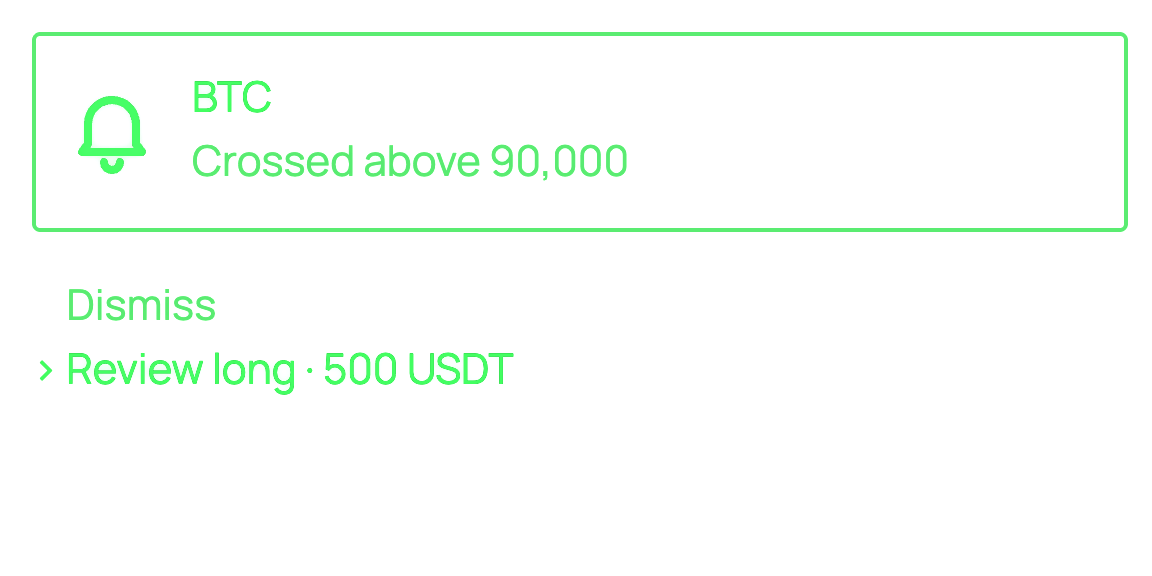
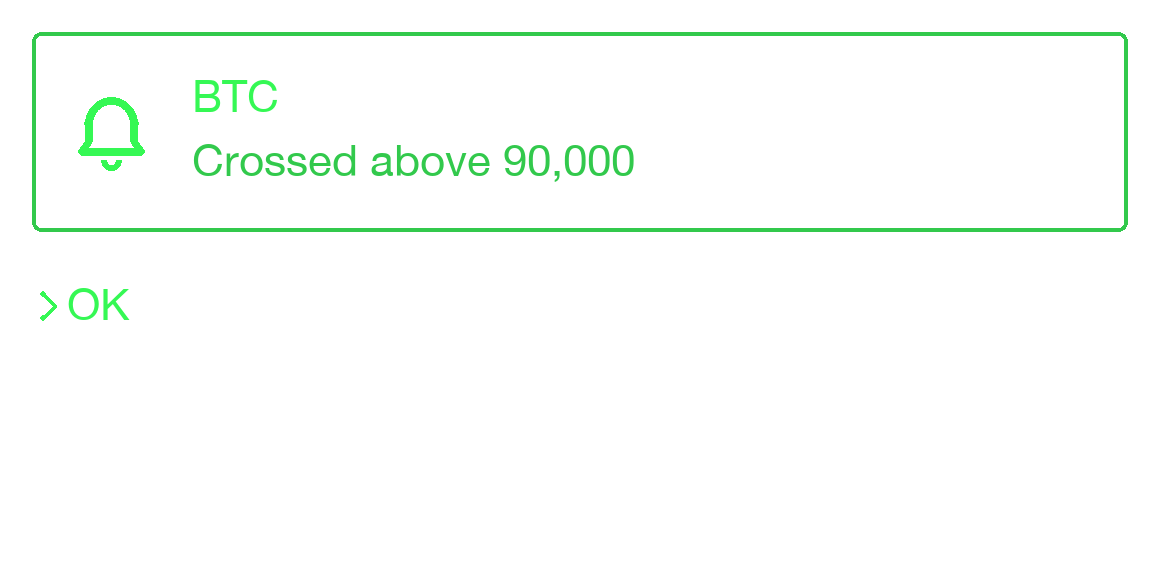
Highlight the firing shortcut during a sandbox scenario and refresh the price-level lens cards.

diff --git a/site/sandbox/src/page.ts b/site/sandbox/src/page.ts
@@ -89,18 +89,32 @@ function renderScene(next: Scene) {
   const free = tab.target === null
   const index = scenes.indexOf(next)
   panel.dataset.scene = free ? 'free' : next
-  sceneViews.forEach((view, i) => { view.hidden = free ? i === 1 : i !== index })
+  sceneViews.forEach((view, i) => { view.hidden = free ? i === 1 : i > index })
   exchangeView.hidden = !free
   for (const button of gestures) if (button.hasAttribute('data-free-control')) button.hidden = !free
-  play.hidden = free
+  play.hidden = free || next !== 'phone' || Boolean(playback)
   play.disabled = true
-  restart.hidden = !free && next === 'phone'
+  restart.hidden = !free && next === 'phone' && !playback
   restart.setAttribute('aria-label', free ? 'Reset sandbox' : 'Replay scenario')
   progress.hidden = free
   progress.setAttribute('aria-valuenow', String(index + 1))
   progress.setAttribute('aria-valuetext', sceneNames[index])
   $('scene-status').textContent = free ? '' : sceneNames[index]
   for (const [i, bar] of Array.from(progress.children).entries()) bar.toggleAttribute('data-reached', i <= index)
+  spotlight(next, false)
+}
+
+function spotlight(device: Scene, scroll = true) {
+  const free = tab.target === null
+  sceneViews.forEach((view, index) => {
+    const dimmed = !free && !view.hidden && scenes[index] !== device
+    if (dimmed && view.contains(document.activeElement)) panel.focus({ preventScroll: true })
+    view.toggleAttribute('data-dimmed', dimmed)
+    view.inert = dimmed
+  })
+  if (scroll && matchMedia('(max-width: 640px)').matches) {
+    sceneViews[scenes.indexOf(device)].scrollIntoView({ block: 'nearest', behavior: 'instant' })
+  }
 }
 
 /** Switching or replaying discards the previous paper account and reloads the app against a fresh one. */
@@ -134,15 +148,21 @@ play.onclick = () => void playScenario()
 /** The in-frame app controls the real shortcut. Wait until its enabled tile is present before offering playback. */
 setInterval(() => {
   if (tab.target === null || scene !== 'phone' || playback || !backend) return
-  const frame = phone.contentDocument
-  const current = frame?.URL && new URL(frame.URL).searchParams.get('run') === String(run)
-  const enabled = current && frame.querySelector('main[aria-label="Shortcuts"]:not([hidden]) .tile__switch[aria-checked=true]')
-  play.disabled = !enabled
-  if (enabled && replayOnReady) {
+  const link = activeShortcut()
+  play.disabled = !link
+  if (link && replayOnReady) {
     replayOnReady = false
     void playScenario()
   }
 }, 150)
+
+function activeShortcut() {
+  const frame = phone.contentDocument
+  const current = frame?.URL && new URL(frame.URL).searchParams.get('run') === String(run)
+  if (!current) return null
+  const enabled = frame.querySelector('main[aria-label="Shortcuts"]:not([hidden]) .tile__switch[aria-checked=true]')
+  return enabled?.closest('.tile')?.querySelector<HTMLAnchorElement>('.tile__body') ?? null
+}
 
 const line = document.querySelector<SVGPolylineElement>('#price-line')!
 const clip = document.querySelector<SVGRectElement>('#plot-clip')!
@@ -150,6 +170,46 @@ const change = $('price-change')
 const prices = [0, .021, .031, .024, .114, .18, .163, .33, .48, .44, .62, .78, .74, 1]
 const cash = (price: number) => Math.round(price).toLocaleString('en-US')
 const delay = (ms: number) => new Promise<void>(resolve => setTimeout(resolve, ms))
+
+type EditorPart = 'condition' | 'action'
+const editorPart = (part: EditorPart) => phone.contentDocument?.querySelector<HTMLElement>(
+  `main[aria-label="Shortcut"]:not([hidden]) [data-shortcut-part="${part}"]`,
+)
+
+async function flashEditor(part: EditorPart, signal: AbortSignal) {
+  const row = editorPart(part)
+  if (!row || signal.aborted) return
+  spotlight('phone')
+  const view = row.ownerDocument.defaultView
+  const box = row.getBoundingClientRect()
+  if (view && (box.top < 12 || box.bottom > view.innerHeight - 12)) {
+    view.scrollTo({ top: view.scrollY + box.top - 24, behavior: 'instant' })
+  }
+  row.setAttribute('data-fired', '')
+  try { await delay(760) } finally { row.removeAttribute('data-fired') }
+}
+
+async function historyOf(server: Backend): Promise<AlertRecord[]> {
+  const response = await server.fetch('/api/history')
+  return response.ok ? response.json() : []
+}
+
+async function watchAction(server: Backend, id: string, signal: AbortSignal) {
+  while (!signal.aborted) {
+    const alert = (await historyOf(server)).find(item => item.id === id)
+    if (!alert || signal.aborted) return
+    if (/^(Shown on Even G2|Filled|Done)(?:\s|$)/.test(alert.status)) {
+      // The confirmation or notification has reached the simulated account or G2.
+      await delay(650)
+      if (signal.aborted) return
+      await flashEditor('action', signal)
+      if (!signal.aborted) spotlight('glasses')
+      return
+    }
+    if (!/^(Waiting|Sending|Submitted|Partly filled)/.test(alert.status)) return
+    await delay(400)
+  }
+}
 
 function showPrice(from: number, target: number, fraction: number) {
   const i = fraction * (prices.length - 1)
@@ -166,15 +226,20 @@ function showPrice(from: number, target: number, fraction: number) {
 async function playScenario() {
   const { target } = tab
   const server = backend
-  if (target === null || !server || play.disabled || scene !== 'phone' || playback) return
+  const link = activeShortcut()
+  if (target === null || !server || !link || play.disabled || scene !== 'phone' || playback) return
+  const shortcutId = decodeURIComponent(link.hash.slice('#/shortcut/'.length))
   const controller = new AbortController()
   const { signal } = controller
   playback = controller
   if (document.activeElement === play) panel.focus({ preventScroll: true })
-  play.disabled = true
+  renderScene('phone')
+  phone.contentWindow!.location.hash = link.hash
   try {
     await server.tick() // establish the reference price before the simulated move
-    await delay(600)
+    const editorDeadline = performance.now() + 3000
+    while (!signal.aborted && !editorPart('condition') && performance.now() < editorDeadline) await delay(50)
+    await delay(650)
     if (signal.aborted) return
     const startedAt = Date.now()
     const from = market.price
@@ -185,6 +250,7 @@ async function playScenario() {
     line.setAttribute('points', prices.map((v, i) => `${3 + 474 * i / (prices.length - 1)},${falling ? 20 + 151 * v : 171 - 151 * v}`).join(' '))
     showPrice(from, target, 0)
     renderScene('chart')
+    spotlight('chart')
     if (reduceMotion.matches) showPrice(from, target, 1)
     else await new Promise<void>(done => {
       const startedAt = performance.now()
@@ -201,15 +267,21 @@ async function playScenario() {
     await server.tick()
     await delay(reduceMotion.matches ? 900 : 300)
     if (signal.aborted) return
-    const response = await server.fetch('/api/history')
-    if (!response.ok) return
-    const alerts: AlertRecord[] = await response.json()
-    const fired = new Set(alerts.filter(a => a.createdAt >= startedAt && !a.simulated).map(a => a.id))
+    const alerts = await historyOf(server)
+    const fired = new Set(alerts.filter(a => a.shortcutId === shortcutId && a.createdAt >= startedAt && !a.simulated).map(a => a.id))
     const expires = performance.now() + 5500
+    if (fired.size) await flashEditor('condition', signal)
     while (fired.size && !signal.aborted && performance.now() < expires && !lensReady(fired)) await delay(80)
     if (signal.aborted) return
-    if (lensReady(fired)) renderScene('glasses')
-    else chartStatus.hidden = false
+    const alert = lensReady(fired) && renderedAlert
+    if (alert) {
+      renderScene('glasses')
+      spotlight('glasses')
+      await watchAction(server, alert.id, signal)
+    } else {
+      spotlight('chart')
+      chartStatus.hidden = false
+    }
   } finally {
     if (playback === controller) playback = undefined
   }

diff --git a/site/sandbox/src/style.css b/site/sandbox/src/style.css
@@ -58,13 +58,16 @@ button:disabled { cursor: default; }
   transition: transform 260ms cubic-bezier(.22, .61, .36, 1), width 260ms cubic-bezier(.22, .61, .36, 1);
 }
 
-.panel { padding: 16px; border: 1px solid var(--line); border-radius: 18px; background: #eceff1; }
-.stage { display: grid; place-items: center; min-height: 550px; }
-.device { min-width: 0; }
-.phone-col {
-  display: grid; grid-template-columns: minmax(0, 1fr) 44px; align-items: center; gap: 12px;
-  width: min(100%, 298px);
+.panel { padding: clamp(12px, 1.65vw, 24px); border: 1px solid var(--line); border-radius: 18px; background: var(--card); }
+.stage {
+  display: grid; gap: 16px; align-items: start;
+  grid-template-columns: minmax(0, 1fr) minmax(245px, 310px) minmax(230px, 270px);
+  grid-template-areas: "glasses phone exchange";
 }
+.device { min-width: 0; transition: filter 180ms var(--press); }
+.device[data-dimmed] { filter: brightness(.68) saturate(.55); }
+.phone-col { position: relative; grid-area: phone; width: 100%; }
+#play { position: absolute; inset-inline-start: calc(100% + 12px); top: calc(50% - 22px); }
 .phone-frame {
   position: relative; width: 100%; padding: 6px; overflow: hidden; border-radius: 31px;
   background: #23252a; box-shadow: inset 0 0 0 1px #50535b, 0 10px 22px #1c26331f;
@@ -80,7 +83,7 @@ button:disabled { cursor: default; }
 }
 
 .chart-col {
-  width: min(100%, 570px); padding: 16px; border: 1px solid var(--line); border-radius: 15px;
+  grid-area: exchange; width: min(100%, 294px); padding: 16px; border: 1px solid var(--line); border-radius: 15px;
   background: var(--card); font-variant-numeric: tabular-nums;
 }
 .chart-heading { display: flex; justify-content: space-between; align-items: baseline; gap: 8px; font-size: 13px; }
@@ -94,7 +97,7 @@ button:disabled { cursor: default; }
 #price-line { stroke: #2e8257; stroke-width: 3; }
 #price-line[data-falling] { stroke: #ae3d52; }
 
-.glasses { width: min(100%, 578px); }
+.glasses { grid-area: glasses; width: 100%; }
 .sim { container-type: inline-size; overflow: hidden; border: 1px solid #262829; border-radius: 14px; background: #161819; }
 #lens { display: block; width: 100%; height: auto; aspect-ratio: 2 / 1; background: #000; cursor: pointer; }
 .sim-bar { display: flex; flex-wrap: wrap; justify-content: center; gap: 6px; padding: 8px; border-top: 1px solid #303233; }
@@ -105,13 +108,6 @@ button:disabled { cursor: default; }
 .sim-bar button:focus-visible { outline: 2px solid #fff; outline-offset: 2px; }
 .sim-bar button.pressed { box-shadow: inset 0 0 0 2px #777; }
 
-.panel[data-scene=free] .stage {
-  min-height: 0; gap: 16px; align-items: start; justify-items: stretch;
-  grid-template-columns: minmax(0, 1fr) minmax(225px, 290px) minmax(230px, 270px);
-  grid-template-areas: "glasses phone exchange";
-}
-.panel[data-scene=free] .phone-col { grid-area: phone; grid-template-columns: minmax(0, 1fr); width: 100%; }
-.panel[data-scene=free] .glasses { grid-area: glasses; width: 100%; }
 .exchange-col { grid-area: exchange; width: min(100%, 294px); }
 .stage .screen { height: 502px; border: 1px solid #262829; border-radius: 14px; }
 
@@ -122,10 +118,11 @@ button:disabled { cursor: default; }
   .icon-button:active:not(:disabled), .sim-bar button:active { transform: scale(.97); }
 }
 @media (max-width: 1020px) {
-  .panel[data-scene=free] .stage {
-    grid-template-columns: minmax(0, 1fr) minmax(220px, 290px);
+  .stage {
+    grid-template-columns: minmax(0, 1fr) minmax(220px, 310px);
     grid-template-areas: "glasses phone" "exchange phone";
   }
+  #play { inset-inline-start: auto; inset-inline-end: calc(100% + 12px); }
 }
 @media (max-width: 640px) {
   :root { --wide: calc(100% - 24px); }
@@ -133,18 +130,18 @@ button:disabled { cursor: default; }
   .brand img { height: 16px; }
   .workspace .nv-button { font-size: .75rem; }
   .panel { padding: 12px; border-radius: 15px; }
-  .stage { min-height: 495px; }
-  .phone-col { width: min(100%, 268px); gap: 8px; }
-  .panel[data-scene=free] .stage {
+  .stage {
     grid-template-columns: minmax(0, 1fr); grid-template-areas: "glasses" "phone" "exchange";
   }
-  .panel[data-scene=free] .phone-col { width: min(100%, 290px); }
+  .phone-col { width: min(100%, 310px); }
+  .panel:not([data-scene=free]) .phone-col { width: min(calc(100% - 56px), 310px); }
+  #play { inset-inline-start: calc(100% + 12px); inset-inline-end: auto; }
   .chart-col { padding: 12px; }
 }
 @container (max-width: 575px) {
   #lens { image-rendering: auto !important; }
 }
 @media (prefers-reduced-motion: reduce) {
-  .workspace .nv-tab-indicator, .icon-button, .sim-bar button { transition: none; }
+  .workspace .nv-tab-indicator, .icon-button, .sim-bar button, .device { transition: none; }
   .icon-button:active:not(:disabled), .sim-bar button:active { transform: none; }
 }

diff --git a/site/landing/index.html b/site/landing/index.html
@@ -142,7 +142,7 @@ body{font-family:Manrope,system-ui,-apple-system,"Segoe UI",Arial,sans-serif}
           <figure><img src="img/hud/nearstop.png" alt="Stop loss alert" width="1152" height="576" loading="lazy"></figure>
           <figure><img src="img/hud/profit.png" alt="Profit alert" width="1152" height="576" loading="lazy"></figure>
           <figure><img src="img/hud/tp.png" alt="Take profit alert" width="1152" height="576" loading="lazy"></figure>
-          <figure><img src="img/hud/plevel.png" alt="Price level alert" width="1152" height="576" loading="lazy"></figure>
+          <figure><img src="img/hud/plevel.png" alt="Lens alert: BTC crossed above 90,000. OK" width="1152" height="576" loading="lazy"></figure>
           <figure><img src="img/hud/filled.png" alt="Order fill alert: SOL long filled, Set take profit ready to confirm" width="1152" height="576" loading="lazy"></figure>
         </div>
         <button type="button" class="gal-a prev" aria-label="Previous screen"><svg width="20" height="20" viewBox="0 0 24 24" fill="none" stroke="currentColor" stroke-width="2" stroke-linecap="round" stroke-linejoin="round" aria-hidden="true"><path d="M15 5l-7 7 7 7"/></svg></button>
@@ -181,7 +181,7 @@ body{font-family:Manrope,system-ui,-apple-system,"Segoe UI",Arial,sans-serif}
     <div class="wrap">
       <div>
         <span class="kick">Positions</span>
-        <h2>Every open position. <em>Right on the lens.</em></h2>
+        <h2>Every open position. <em>In front of your eyes.</em></h2>
         <p>Main shows open positions, mark price, ROI and a warning near liquidation. Tap a position for its leverage, PnL, stop and liquidation distances, and the past hour of prices.</p>
       </div>
       <div class="cards position-screens"><img class="c1" src="img/cards/positions.jpg" alt="Main menu showing open BTC, ETH and SOL positions, their prices and returns" width="1152" height="576" loading="lazy" draggable="false"><img class="c2" src="img/cards/position-detail.jpg" alt="BTC position detail showing PnL, leverage, liquidation distance and a price chart" width="1152" height="576" loading="lazy" draggable="false"></div>
@@ -226,7 +226,7 @@ body{font-family:Manrope,system-ui,-apple-system,"Segoe UI",Arial,sans-serif}
         <p>See when price crosses your level, moves by your chosen percentage, volume spikes or a funding payment is coming up.</p>
         <div class="tpls" data-tpl="10,26,11,20"></div>
       </div>
-      <div class="cards"><img class="c1" src="img/cards/pchange.jpg" alt="Lens alert: ETH long up 5.1% in 15 minutes. Review add, 200 USDT" draggable="false"><img class="c2" src="img/cards/plevel.jpg" alt="Lens alert: BTC crossed above 90,000. Review long, 500 USDT" draggable="false"></div>
+      <div class="cards"><img class="c1" src="img/cards/pchange.jpg" alt="Lens alert: ETH long up 5.1% in 15 minutes. OK" draggable="false"><img class="c2" src="img/cards/plevel.jpg" alt="Lens alert: BTC crossed above 90,000. OK" draggable="false"></div>
     </div>
   </section>
   <section class="fam">

diff --git a/app/src/phone/editor.ts b/app/src/phone/editor.ts
@@ -427,7 +427,7 @@ function whenCard(m: ReturnType<typeof marks>) {
     lines.push(h('p', {}, h('span', { class: 'chip', html: icon('when', 14, 2.6) }), 'When',
       d.voicePhrase ? h('span', {}, ' you say ', h('em', { class: 'phrase' }, d.voicePhrase)) : null))
   }
-  return h('div', { class: 'card card--when sentence' }, ...lines,
+  return h('div', { class: 'card card--when sentence', 'data-shortcut-part': 'condition' }, ...lines,
     items.length < cat.limits.maxConditions && !s.readOnly
       ? h('button', { class: 'add-btn', type: 'button', 'data-fk': 'add-cond', html: icon('plus-circle', 20, 2), onclick: () => conditionSheet() }, 'Add condition')
       : null,
@@ -437,13 +437,13 @@ function whenCard(m: ReturnType<typeof marks>) {
 function doCard(issues: Issue[]) {
   const a = s.draft.action
   if (!a) {
-    return h('div', { class: 'card card--when sentence' },
+    return h('div', { class: 'card card--when sentence', 'data-shortcut-part': 'action' },
       h('p', {}, h('span', { class: 'chip', html: icon('do-empty', 14, 2.6) }), 'Do'),
       s.readOnly ? null : h('button', { class: 'add-btn', type: 'button', 'data-fk': 'add-action', html: icon('plus-circle', 20, 2), onclick: () => actionSheet('add-action') }, 'Add action'),
       marker(issues))
   }
   const ic = ACTION_ICON[a.type]
-  return h('div', { class: 'card sentence' }, h('div', { class: 'row-line' },
+  return h('div', { class: 'card sentence', 'data-shortcut-part': 'action' }, h('div', { class: 'row-line' },
     h('div', { class: 'row-line__main' },
       h('p', {}, h('span', { class: 'chip', style: `--c: ${ic.color}`, html: icon(ic.icon, 14, 2.4) }),
         h('span', { class: issues.length ? 'word is-error' : 'word' }, 'Do'), ' ', ...sentence(actionParts(a), undefined, issues.length > 0)),

diff --git a/site/sandbox/src/app-host.ts b/site/sandbox/src/app-host.ts
@@ -2,6 +2,8 @@
  * Runs inside the phone frame, before the app: it is the frame's Even app WebView. The bridge and the server live in
  * the parent page (page.ts); the app itself, app/src/main.ts, is imported unchanged.
  */
+import './editor-spotlight.css'
+
 type Sandbox = { attach(w: Window, run: number): boolean; fetch(input: RequestInfo | URL, init: RequestInit | undefined, run: number): Promise<Response> }
 
 const sandbox = (parent as unknown as { sandbox?: Sandbox }).sandbox

diff --git a/site/sandbox/src/editor-spotlight.css b/site/sandbox/src/editor-spotlight.css
@@ -1,0 +1,13 @@
+.phone [data-shortcut-part][data-fired] {
+  border-color: #438059;
+  box-shadow: 0 0 0 3px #43805965;
+  background: color-mix(in srgb, var(--surface) 90%, #75bf8d);
+}
+
+@media (prefers-reduced-motion: no-preference) {
+  .phone [data-shortcut-part][data-fired] { animation: sandbox-rule-fired 640ms ease-out; }
+  @keyframes sandbox-rule-fired {
+    from { box-shadow: 0 0 0 1px #438059; }
+    40% { box-shadow: 0 0 0 7px #43805966; }
+  }
+}

diff --git a/docs/handoff.md b/docs/handoff.md
@@ -6,6 +6,8 @@ The phone editor, G2 client and Bybit adapter share one rule catalog. It has 13 
 
 The landing feed uses the brand green `#0b7a3b` for the emphasized words in each heading. Position screens are the current lens frames on the same photo background as the other alerts. Each alert section shows two lens cards. The landing does not show the phone History list.
 
+The browser sandbox shows the glasses, the phone and the paper exchange on one stage. Playing a scenario dims the devices that are not the current step and flashes the shortcut's condition, then its action, on the phone.
+
 The phone opens a template as an unsaved rule. Save it, then enable it on Home. On the lens, an actionable alert starts on Dismiss. For Open long or Open short with alternative sizes or leverages, the user picks the terms by hand and reviews the exact order. Other eligible cards support a spoken yes or no when transcription and voice answers are enabled. A yes starts a five-second cancellation window.
 
 Settings in the Even app can send a connection check to the lens in the same session. The phone reports success after a tap on the TEST card. Quiet mode shows connection status and the nearest liquidation risk between alerts. History opens each record to show the proposed terms, execution outcome, and position readback when recorded. The landing page links directly to the beta installation steps.
@@ -23,6 +25,7 @@ Settings in the Even app can send a connection check to the lens in the same ses
 
 ## Verification and release history
 
+- Typecheck and all 587 automated tests passed on 26 November 2026 after the sandbox playback highlight. The landing price-level cards were refreshed in the same change.
 - The G2 connection check, Quiet mode, and History changes passed typecheck and all 593 automated tests. The app, landing page, and browser sandbox built successfully. The browser simulator confirmed the TEST card, opened the position list from Quiet mode, and recorded a simulated close from 0.050 to 0.025 BTC in History. Physical G2/R1 verification is pending.
 - Working tree based on `f5a7e38`, including local server changes, 25 November 2026. With Node 22.23.4, typecheck and all 587 automated tests passed (zero skipped). The app, landing page, browser sandbox and a test `.ehpk` built in an isolated copy with a placeholder HTTPS origin.
[1 lines of base64/hex data omitted]

diff --git a/README.md b/README.md
@@ -18,7 +18,7 @@ A Bybit trader can miss a position nearing liquidation while their phone is in t
     <th>Review and confirm on G2</th>
   </tr>
   <tr>
-    <td align="center"><img src="assets/phone-shortcuts.png" width="226" alt="Phone shortcut tiles, including a rule to close half when liquidation distance is at most 3%"></td>
+    <td align="center"><img src="assets/phone-shortcuts.png" width="226" alt="Phone shortcut tiles with action icons, titles and on/off switches"></td>
     <td align="center">
       <img src="assets/lens-alert.jpg" width="376" alt="G2 alert for a BTC long near liquidation, with Dismiss and Close 50% choices"><br>
       <img src="assets/lens-fill.jpg" width="376" alt="G2 result showing 0.025 BTC closed and the paper position reduced from 0.050 to 0.025 BTC">
